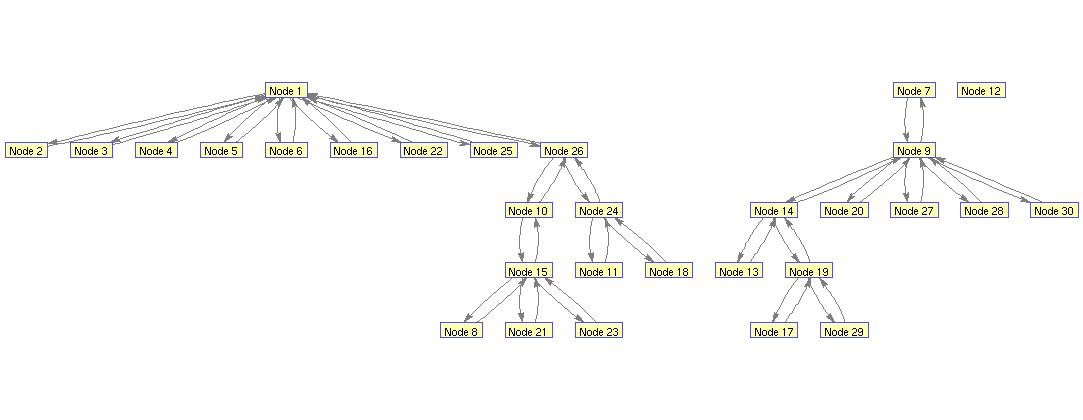
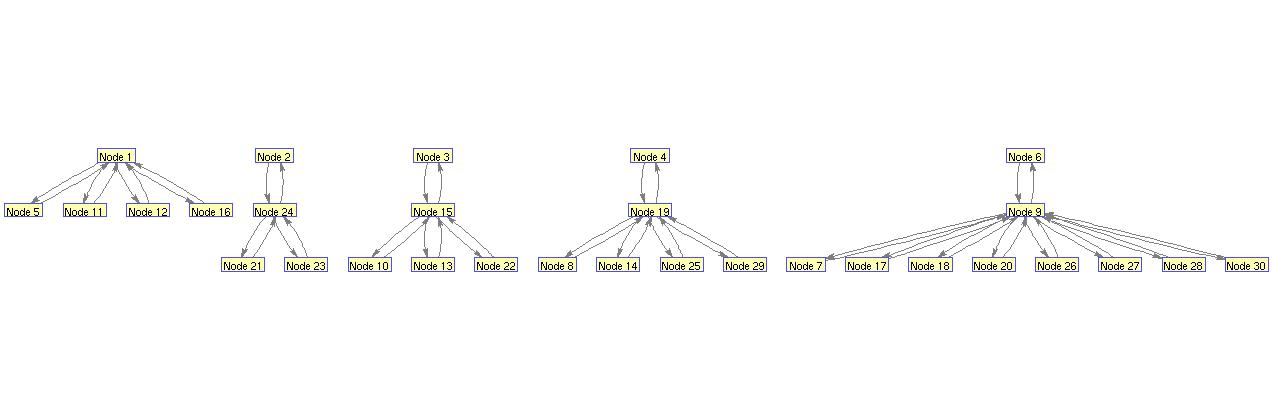
debug

diff --git a/wiopt/multibandpen.m b/wiopt/multibandpen.m
@@ -204,29 +204,32 @@ for j=1:numel(mesh_nodes)
                 % End a path pen calculation
             end
             
+            
             if(p_b_flag==0)
                 path_flag=0;
                 no_qua_path=[no_qua_path path_index(pen_i)];
             else
                 path_flag=1;
                 
-            end
+            
             
             path_pen_comb=[path_pen_comb path_pen];
             % path_store{path_cnt}=path{(path_i)};
             
             band_store{pen_i}=path_band(:);
             
-            
+            end
             
             % End all the paths and stored in path_pen_comb
         end
         
-        if(path_flag==0)
+        no_qua_path
+        
+        if(numel(no_qua_path)>0)
             %path_store(no_qua_path)=[];
             
             for rest_i=1:numel(no_qua_path)
-                rest_index=find(result_store(:,4)==no_qua_path(rest_i));
+                rest_index=find(result_store(:,4)==no_qua_path(rest_i))
                 result_store(rest_index,:)=[];
             end
 
@@ -263,6 +266,7 @@ for j=1:numel(mesh_nodes)
     
     
     
+    
     % Update active links and remove radios
     for chosen_i=2:numel(path_chosen)
         act_link(path_chosen(chosen_i-1),path_chosen(chosen_i),bands_chosen(chosen_i-1))=1;
@@ -278,9 +282,9 @@ for j=1:numel(mesh_nodes)
         weight(path_chosen(chosen_i),:,bands_chosen(chosen_i-1))=weight(path_chosen(chosen_i),:,bands_chosen(chosen_i-1))+1;
         weight(:,path_chosen(chosen_i),bands_chosen(chosen_i-1))=weight(:,path_chosen(chosen_i),bands_chosen(chosen_i-1))+1;
         
-%         act_dtst=sum(act_link,3);
-% Pa=biograph(act_dtst);
-% view(Pa)
+        act_dtst=sum(act_link,3);
+Pa=biograph(act_dtst);
+tmp=view(Pa);
     end
     
     
